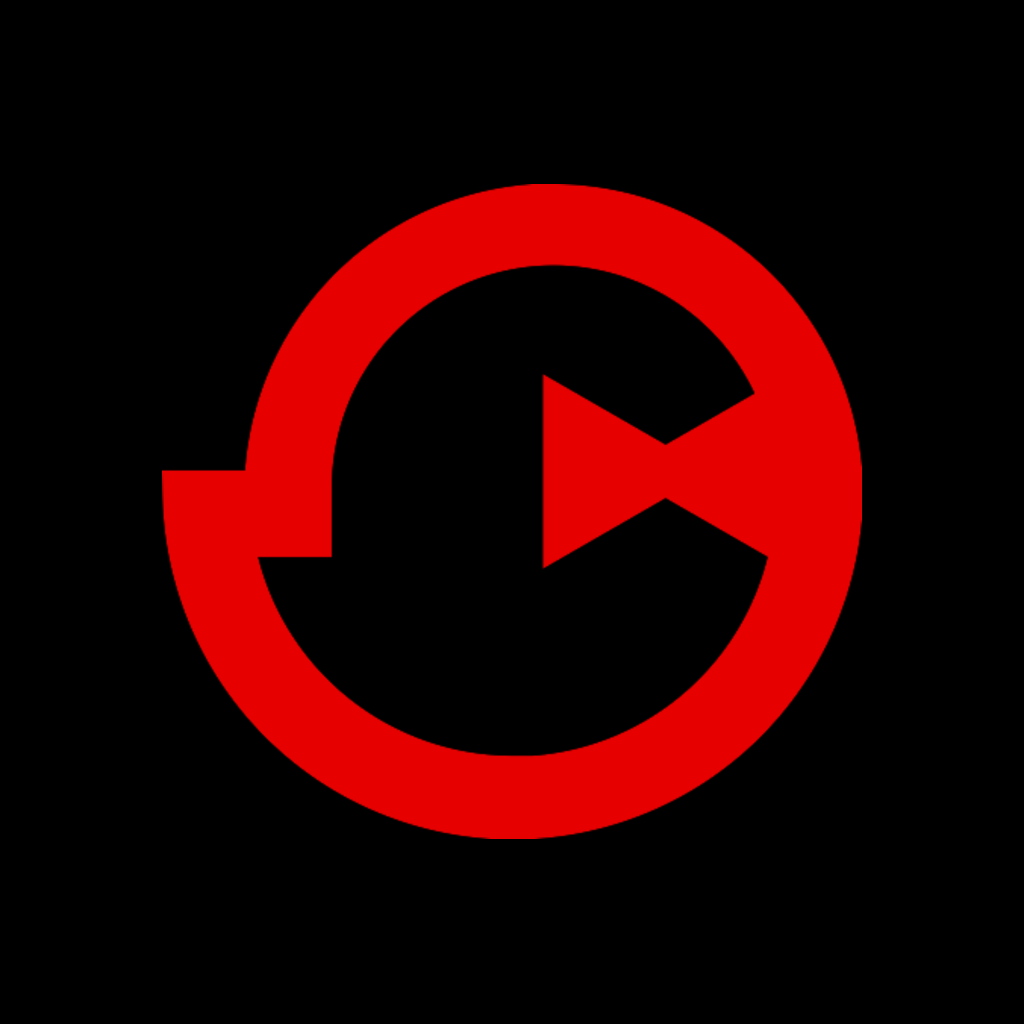
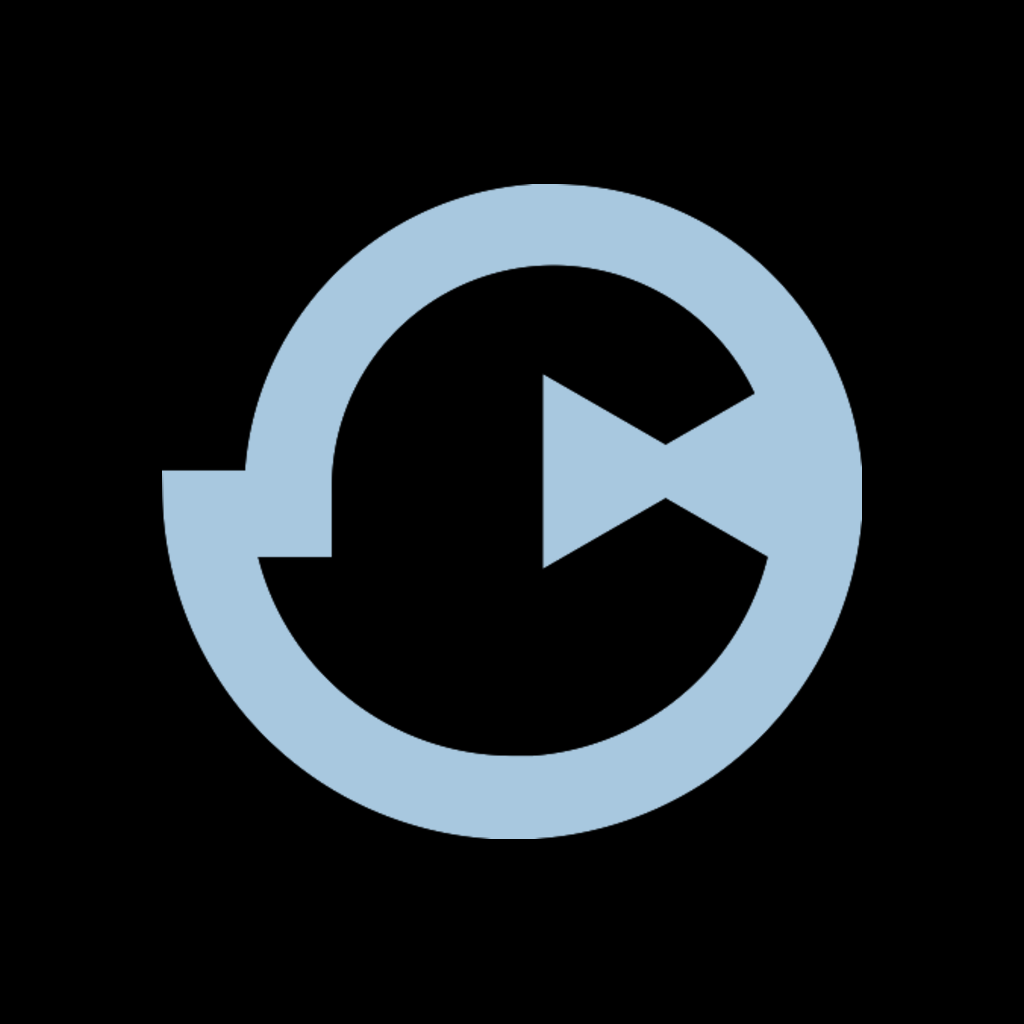
chore: rename android dev build commands

Changed region(s): [[0.1562, 0.1562, 0.8438, 0.8438]]

diff --git a/apps/mobile/app.config.js b/apps/mobile/app.config.js
@@ -53,7 +53,7 @@ module.exports = ({ config }) => {
     return {
         ...config,
         version: pkg.version,
-        name: devMode ? "Vex Beta" : config.name,
+        name: devMode ? "Vex Developer" : config.name,
         icon: iconPath,
         splash: {
             backgroundColor: "#0a0a0a",